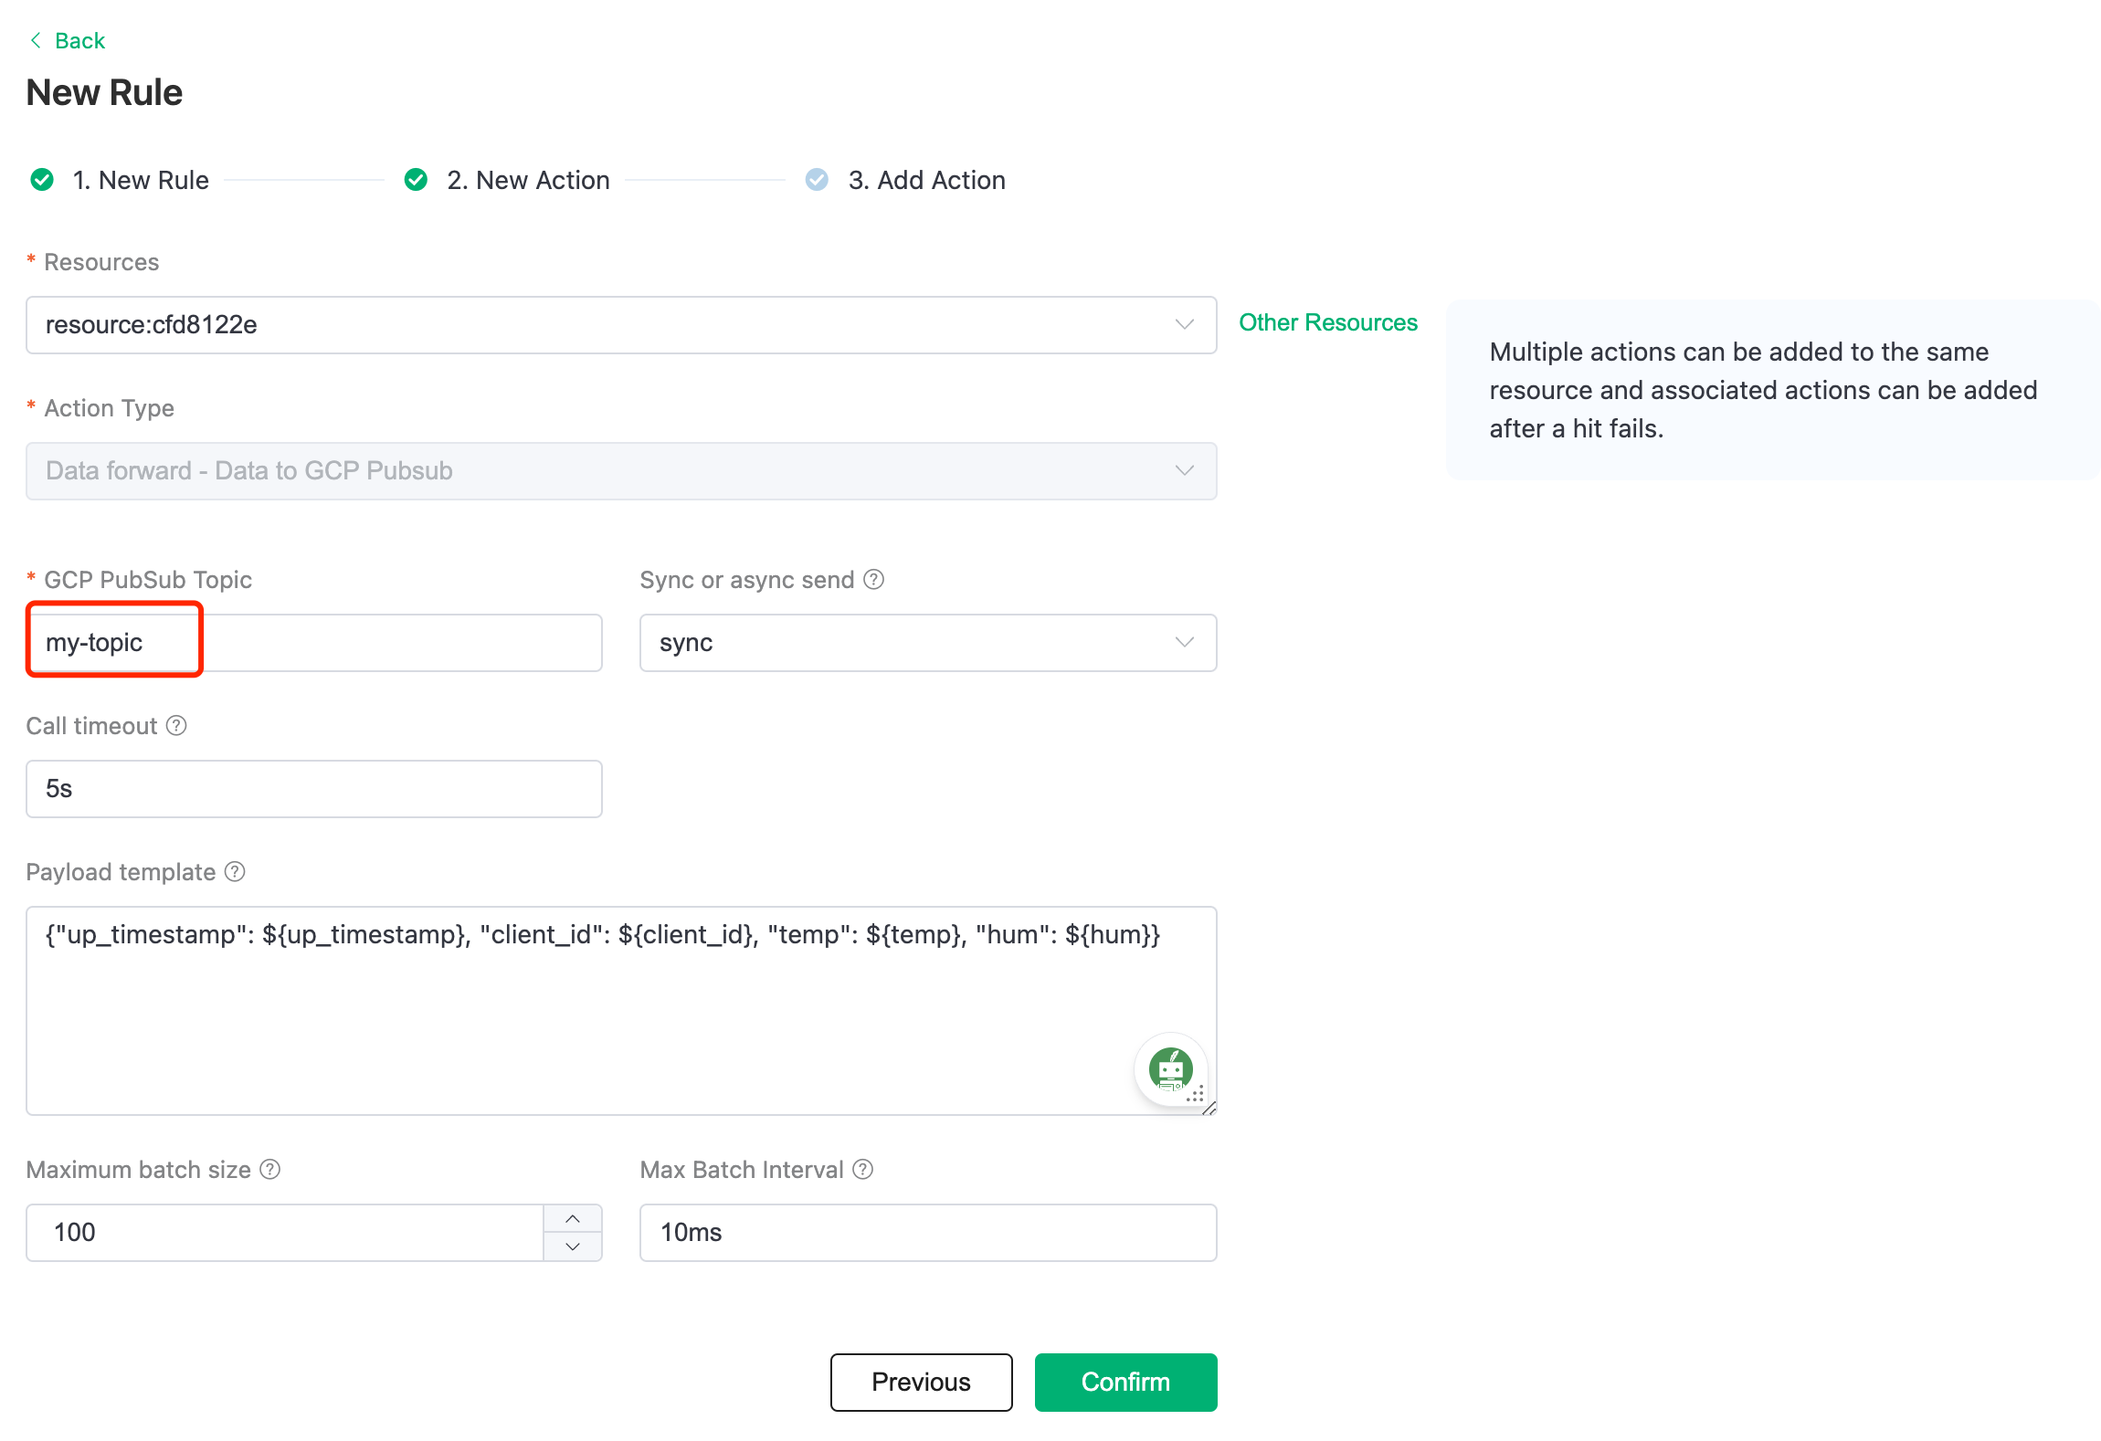
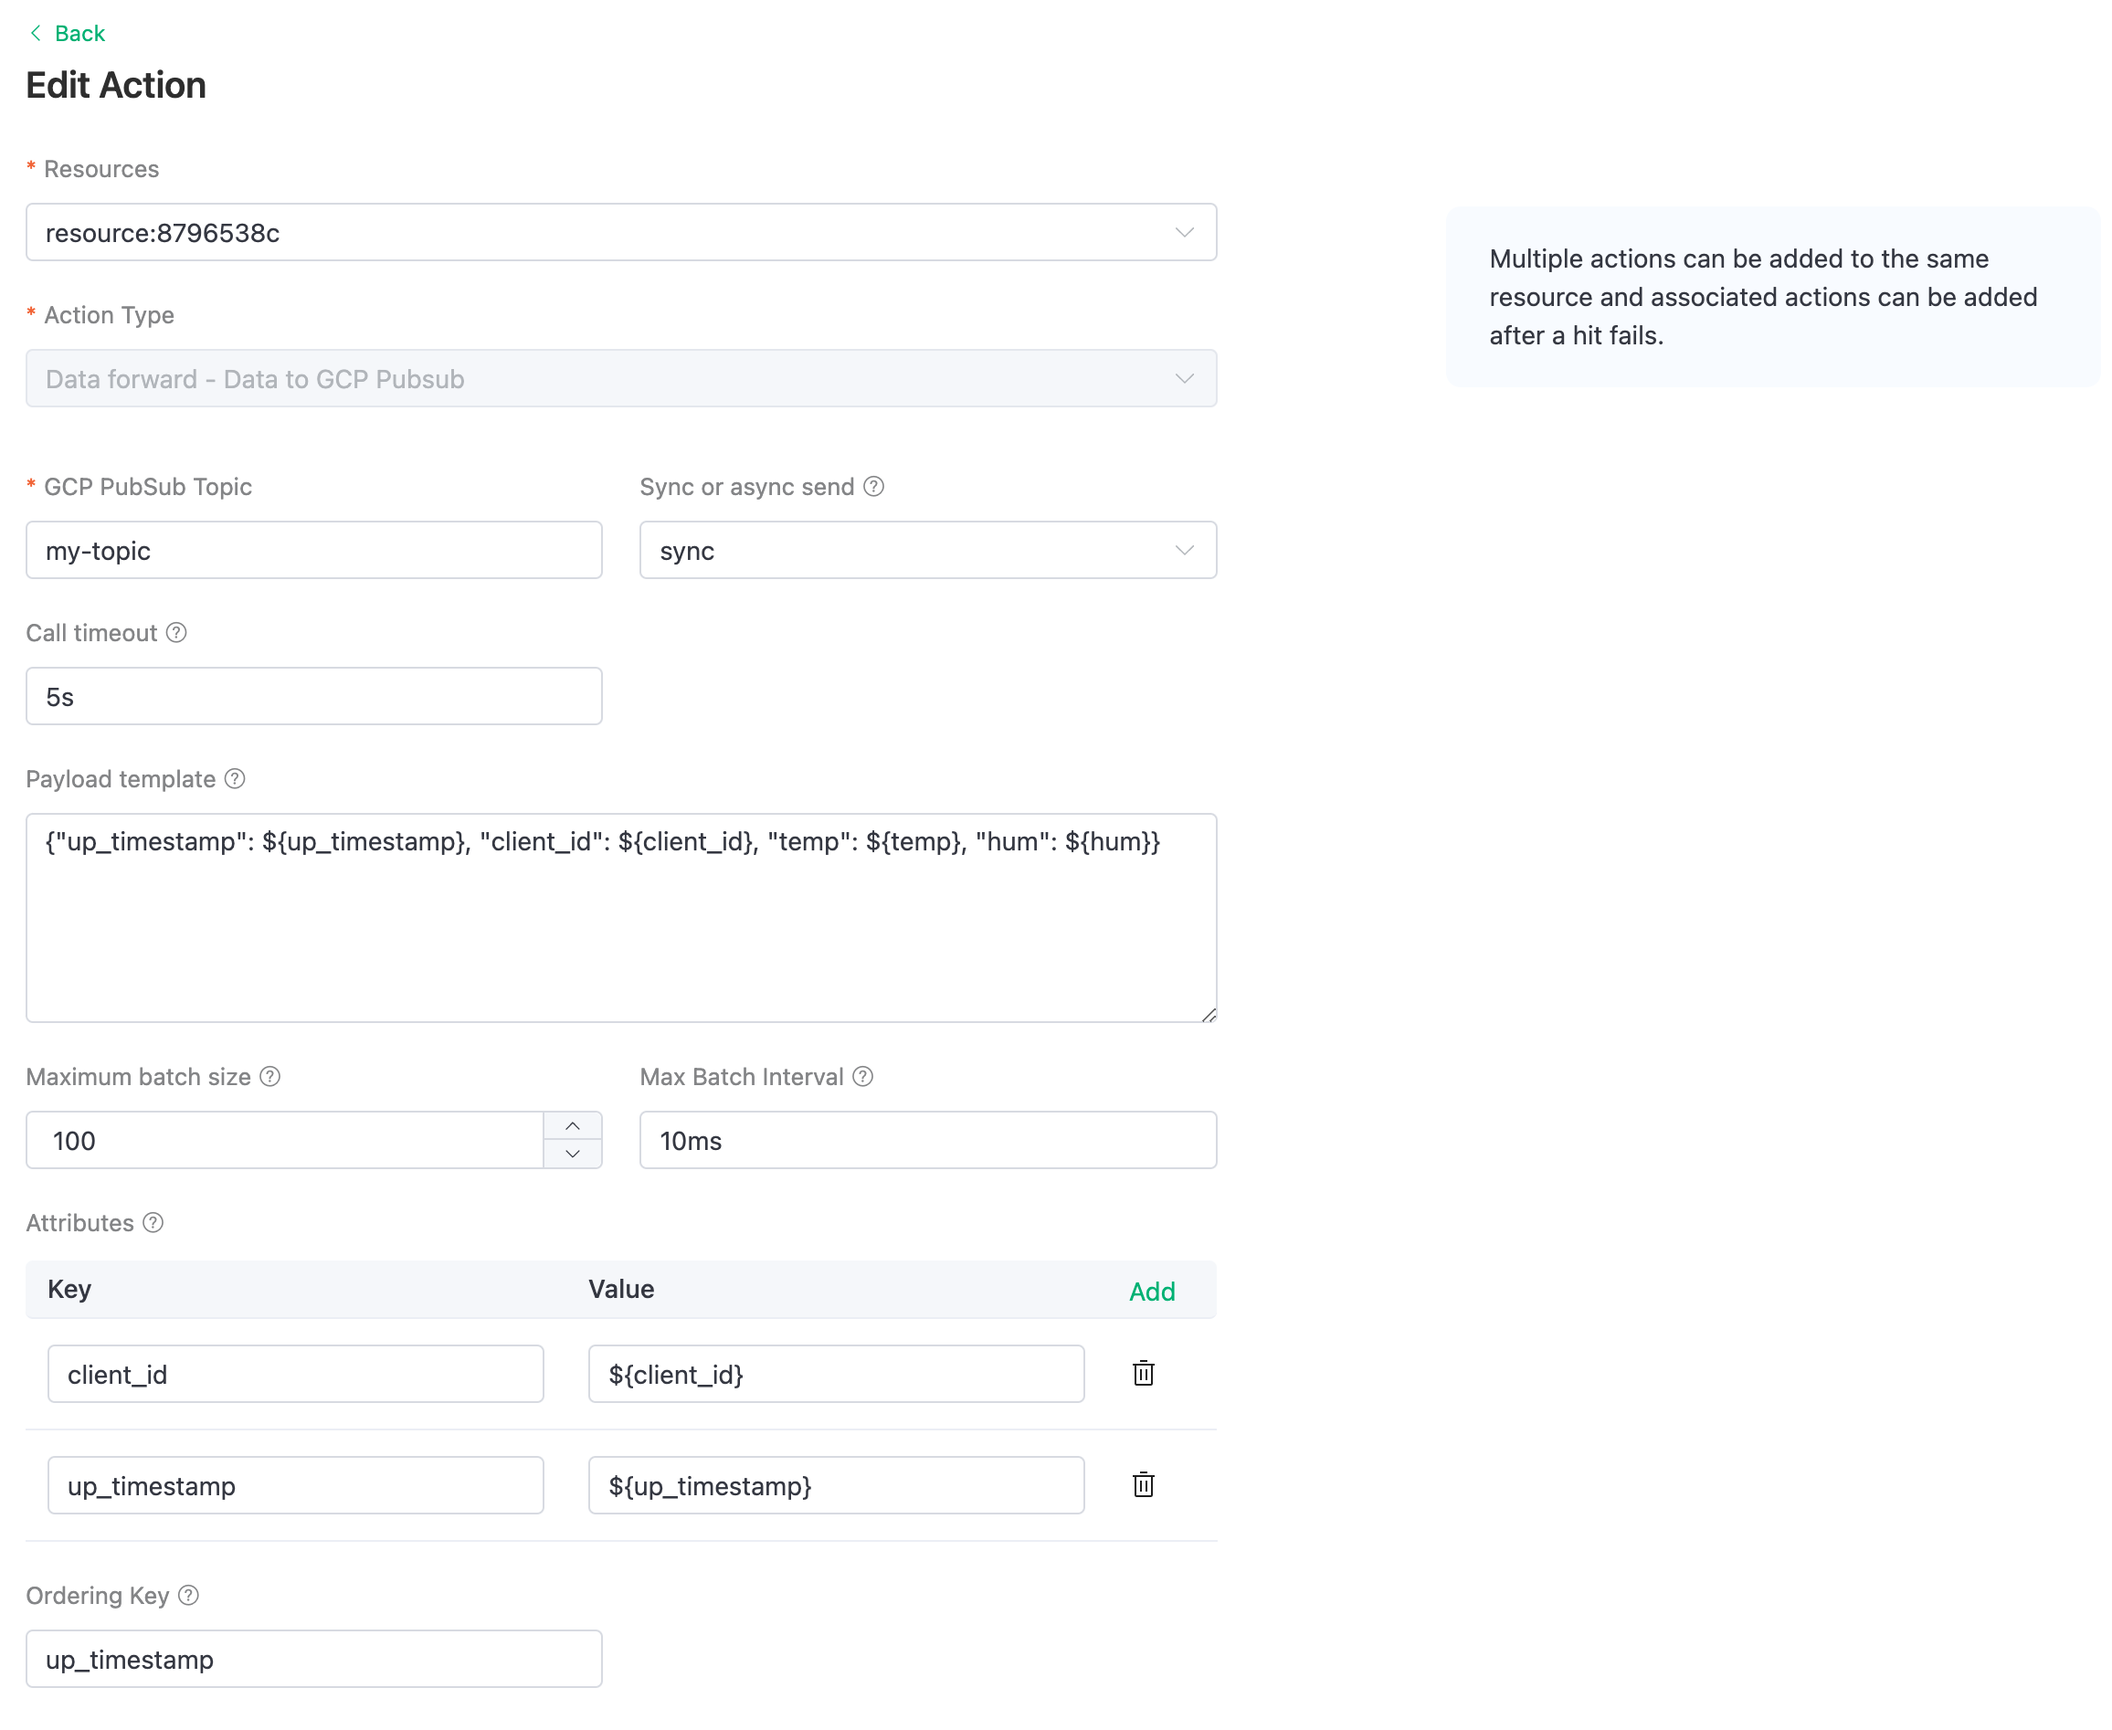
feat(docs): update gcp_pubsub and shared_subscription

diff --git a/en_US/connect_to_deployments/shared_subscription.md b/en_US/connect_to_deployments/shared_subscription.md
@@ -3,6 +3,20 @@
 Shared subscription is a subscription method that achieves load balancing among multiple subscribers,
 EMQX Cloud adopts a random balance strategy, select randomly among all subscribers.
 
+::: tip
+**Important Notice: Persistent Sessions (clean_session=false) and Shared Subscriptions Cannot Be Used Simultaneously**
+
+If you are using shared subscription functionality, it is essential to set the client's clean_session to true.
+
+**Reasons are as follows:**
+
+1. **Persistent session functionality** allows subscribers to resume data flow immediately after reconnecting without losing messages, which is crucial for ensuring reliable message delivery. However, this conflicts with the concept of **load balancing**. Shared subscriptions typically allow another device within a group to take over data flow when one device goes offline. However, if a device remains offline for an extended period, the message buffer of the persistent session might overflow, resulting in message loss.
+
+2. When clean_session is set to false, and a device remains offline for an extended period, messages may **continue to accumulate**. The persistent session keeps delivering messages to the device, but the device does not process them. Suppose a device goes offline due to some reason, but the session persists, and other message publishers continue to send messages to that device's session. As the device is offline, these messages cannot be processed promptly, leading to a continuous accumulation of messages in the session. Additionally, these accumulated messages won't be forwarded to other devices since they are considered part of the same device's session. Over time, message accumulation can become increasingly severe, ultimately consuming memory and storage resources, negatively impacting system stability and performance.
+
+**To ensure system reliability and efficient resource utilization, it is essential to set clean_session to true when using shared subscriptions**. This ensures that messages can be appropriately shared among other devices when a device goes offline, avoiding continuous accumulation and resource wastage.
+:::
+
 ## Shared subscription prefixes formats
 
 EMQX Cloud supports shared subscription prefixes in two formats:
@@ -10,10 +24,10 @@ shared subscription with groups (prefixed with `$share/<group-name>/`) and share
 
 Examples of two shared subscription prefixes formats are as follows.
 
-| prefixes formats | Example | Prefix | Real topic name |
-|:----|:----|:----|:----|
-| Shared subscription with groups | $share/abc/t/1 | $share/abc/ | t/1 |
-| Shared subscription without group | $queue/t/1 | $queue/ | t/1 |
+| prefixes formats                  | Example        | Prefix      | Real topic name |
+| :-------------------------------- | :------------- | :---------- | :-------------- |
+| Shared subscription with groups   | $share/abc/t/1 | $share/abc/ | t/1             |
+| Shared subscription without group | $queue/t/1     | $queue/     | t/1             |
 
 ## Shared subscription with groups
 

diff --git a/zh_CN/connect_to_deployments/shared_subscription.md b/zh_CN/connect_to_deployments/shared_subscription.md
@@ -2,8 +2,21 @@
 
 共享订阅是在多个订阅者之间实现负载均衡的订阅方式，EMQX Cloud 采用 random 均衡策略，即在所有订阅者中随机选择一位订阅者获取消息。
 
-您可以查看[教程视频](https://player.bilibili.com/player.html?aid=254440768&bvid=BV1vY411G74L&cid=541242226&page=1)进一步了解。
+::: tip
+**重要提示：持久化会话（clean_session=false）和共享订阅不能同时使用**
 
+如果您在使用共享订阅功能，请务必将客户端的 clean_session 设置为 true。
+
+**原因如下：**
+
+1. **持久化会话功能**允许订阅者在重新连接后立即恢复数据流而不丢失消息，这对于确保消息的可靠传递至关重要。然而，这与**负载平衡**的概念存在冲突。共享订阅通常允许一个设备离线时，组内的其他设备接管数据流。但是如果设备离线时间过长，持久化会话的消息缓冲区可能会溢出，导致消息丢失。
+
+2. 当设置 clean_session=false 并且设备长时间离线时，消息可能会**持续堆积**。持久化会话导致消息继续被投递到设备，但设备并未处理这些消息。假设某个设备由于某种原因离线，但会话保持存在，此时其他消息发布者继续发送消息到该设备的会话中。由于设备离线，这些消息无法被设备及时处理，导致消息持续堆积在会话中。这些消息也不会被传递给其他设备，因为它们都被视为属于同一个设备的会话。随着时间的推移，消息堆积可能变得越来越严重，最终导致内存和存储资源的消耗增加，对系统的稳定性和性能产生负面影响。
+
+**为确保系统的可靠性和资源的有效利用，在使用共享订阅时，请务必将 clean_session 设置为 true**。这将确保设备离线后，消息能够合理地在其他设备间共享，避免持续堆积和资源浪费。
+:::
+
+您可以查看[教程视频](https://player.bilibili.com/player.html?aid=254440768&bvid=BV1vY411G74L&cid=541242226&page=1)进一步了解。
 
 ## 共享订阅前缀格式
 

diff --git a/en_US/rule_engine/rule_engine_gcp_pubsub.md b/en_US/rule_engine/rule_engine_gcp_pubsub.md
@@ -77,6 +77,11 @@ Go to the `Data Integrations` page
    {"up_timestamp": ${up_timestamp}, "client_id": ${client_id}, "temp": ${temp}, "hum": ${hum}}
    ```
 
+   Fill in the Attributes and Ordering Key to facilitate better data visualization on the GCP Pub/Sub side.
+
+   * Attributes: Both key and value attribute templates support the use of ${var} to fetch the corresponding field value output by the rule.
+   * The Ordering Key template supports the use of ${var} to fetch the corresponding field value output by the rule.
+
    ![gcp_pubsub_action](./_assets/gcp_pubsub_action.png)
 
 6. After successfully binding the action to the rule, click View Details to see the rule sql statement and the bound actions.
